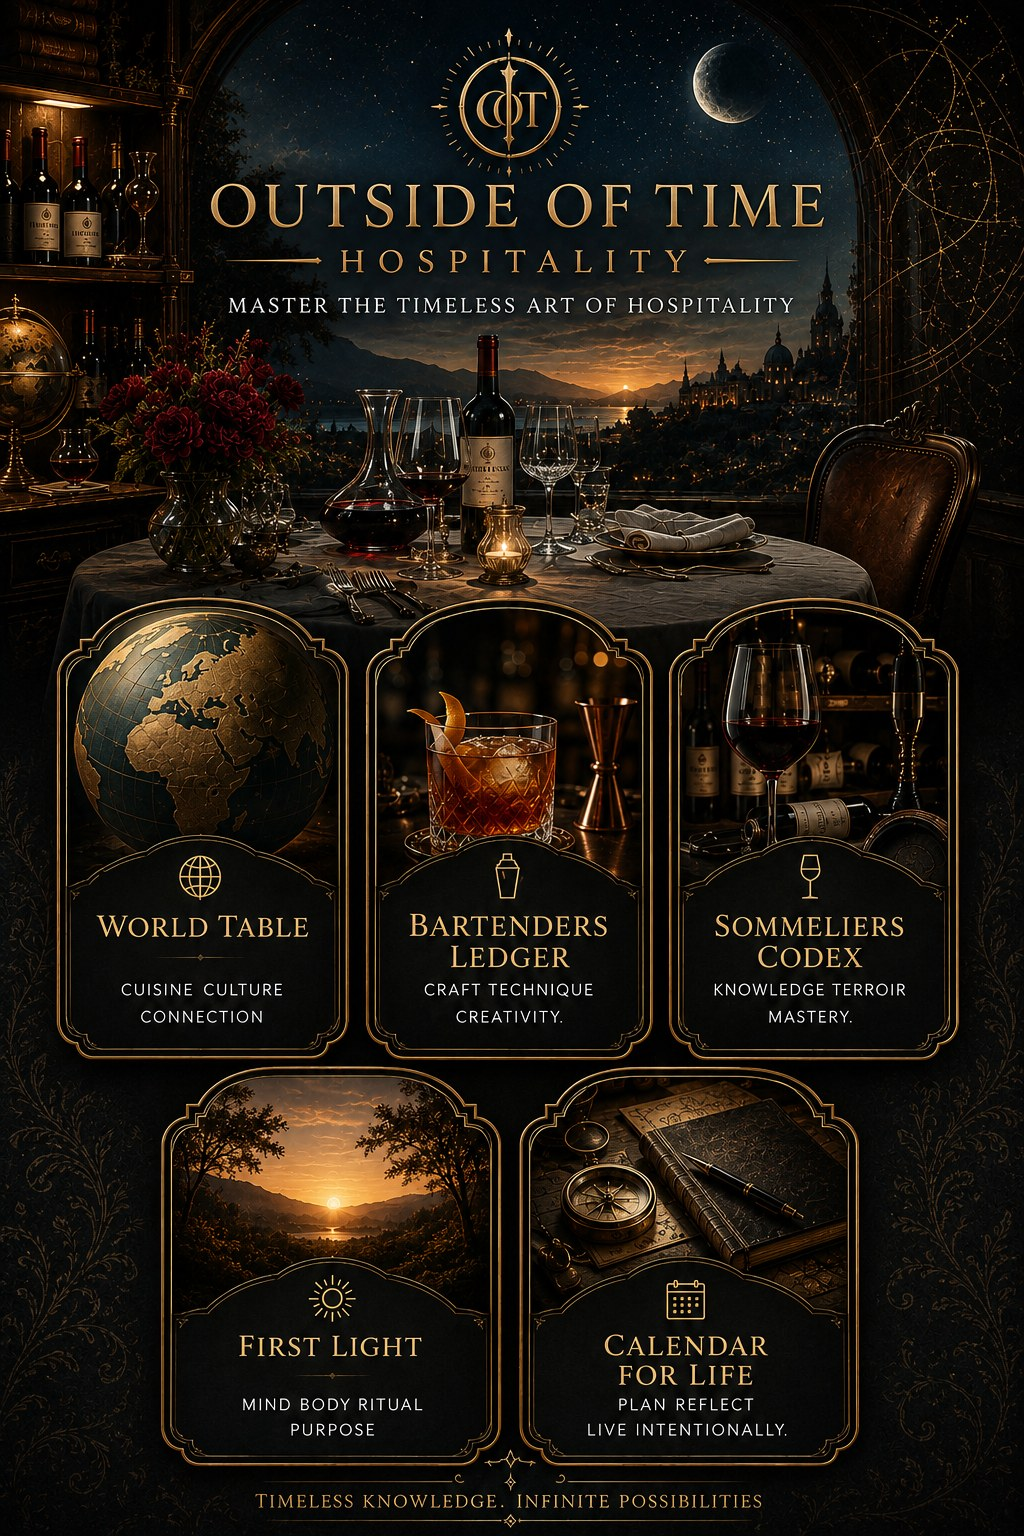
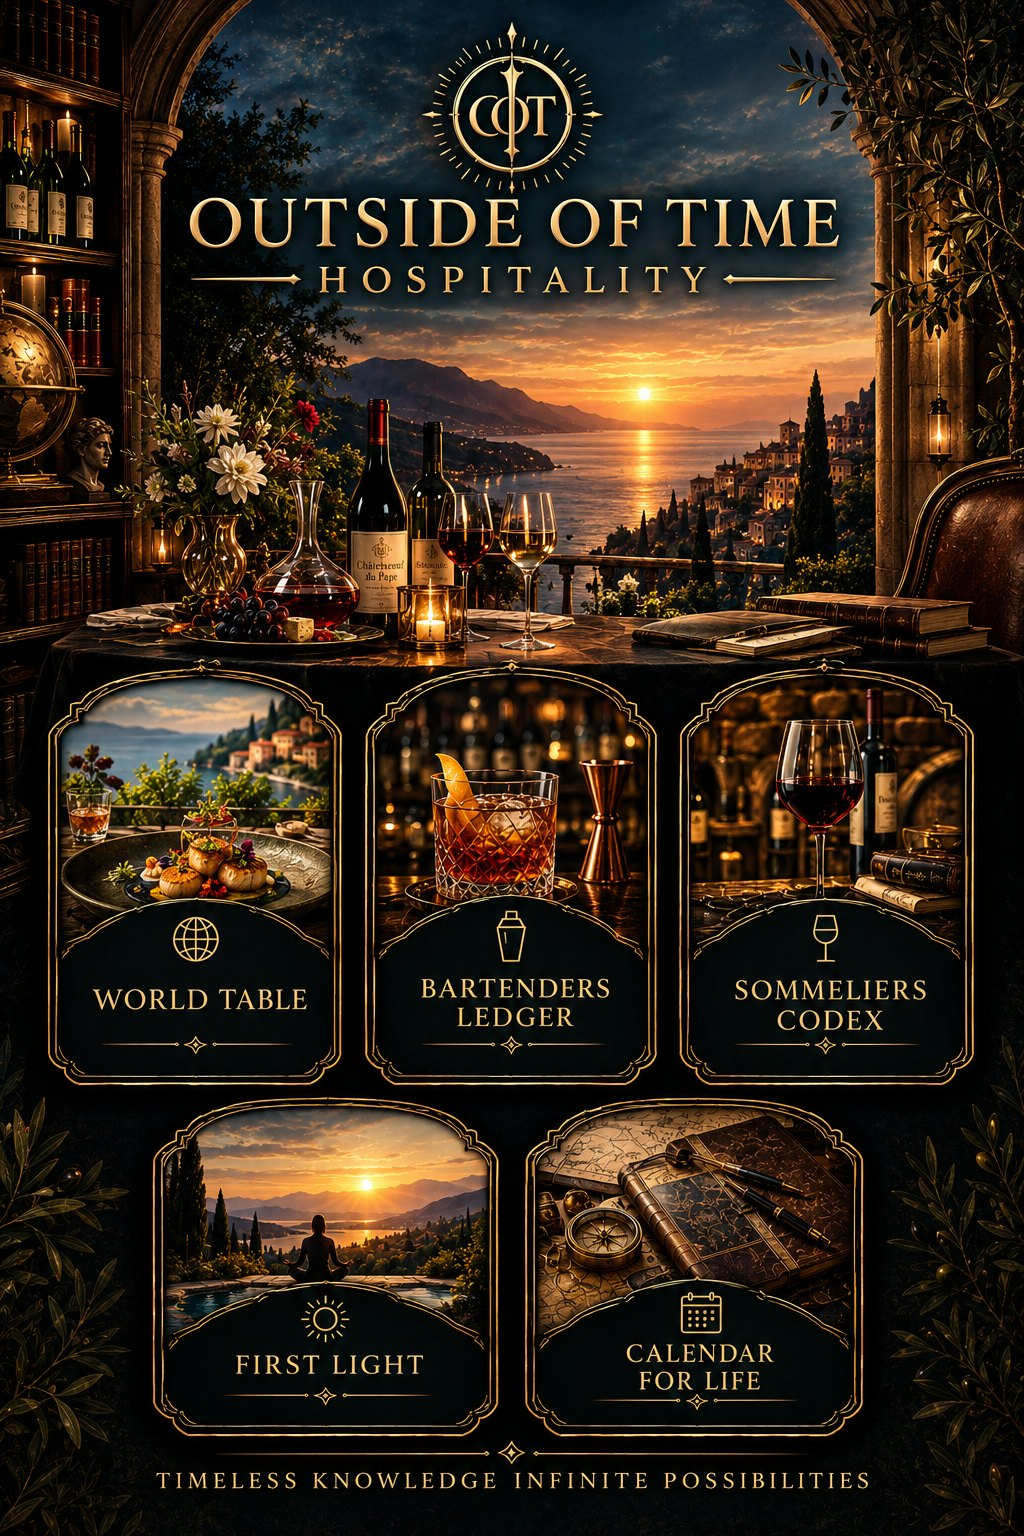
The new hub plate
New artwork for the front door, and the five invisible hotspots moved to the
cards' new positions. They were measured off the image by its gold borders and
then drawn back over it and checked, because a hotspot that is out by four per
cent does not look wrong, it just opens the wrong wing.

diff --git a/assets/hub-poster.css b/assets/hub-poster.css
@@ -280,11 +280,17 @@ header.top { padding: 0; }
 @media (prefers-reduced-motion: reduce) { .spot { transition: none; } }
 
 /* Measured off the 1024x1536 artwork. */
-.spot-table   { left:  5.57%; top: 38.87%; width: 28.32%; height: 30.14%; }
-.spot-ledger  { left: 35.74%; top: 38.87%; width: 27.93%; height: 30.14%; }
-.spot-codex   { left: 65.33%; top: 38.87%; width: 28.22%; height: 30.14%; }
-.spot-light   { left: 15.72%; top: 69.47%; width: 33.20%; height: 25.85%; }
-.spot-almanac { left: 50.78%; top: 69.47%; width: 33.11%; height: 25.85%; }
+/* Measured off the artwork, not estimated: the card borders are gold, so
+   counting gold pixels down each column and across each row finds the four
+   edges of every card exactly. The boxes were then drawn back over the
+   picture and looked at before shipping, because a hotspot is invisible and
+   a wrong one does not look wrong, it just opens the wrong wing. Re-measure
+   whenever the plate is redrawn: every number here belongs to one image. */
+.spot-table   { left:  4.69%; top: 40.17%; width: 28.51%; height: 30.40%; }
+.spot-ledger  { left: 35.64%; top: 40.17%; width: 28.42%; height: 30.40%; }
+.spot-codex   { left: 66.41%; top: 40.17%; width: 28.61%; height: 30.40%; }
+.spot-light   { left: 14.94%; top: 71.90%; width: 33.60%; height: 21.60%; }
+.spot-almanac { left: 51.27%; top: 71.90%; width: 32.91%; height: 21.60%; }
 
 
 .acct { display: flex; justify-content: center; gap: 10px; flex-wrap: wrap; margin: 24px auto 0; padding: 0 16px; }

diff --git a/assets/hub-plate.js b/assets/hub-plate.js
@@ -51,18 +51,20 @@
 
     var pic = document.createElement('picture');
     var src = document.createElement('source');
-    src.srcset = 'assets/hub-plate.webp';
+    /* stamped so a browser's own cache cannot serve the previous artwork; the
+       worker matches with ignoreSearch, so the precached bare path still answers */
+    src.srcset = 'assets/hub-plate.webp?v=2';
     src.type = 'image/webp';
     var img = document.createElement('img');
-    img.src = 'assets/hub-plate.jpg';
+    img.src = 'assets/hub-plate.jpg?v=2';
     img.width = 1024;
     img.height = 1536;
     img.decoding = 'async';
     /* The masthead's words are painted into this image, so they are described
        here for anyone who cannot see it. The five wings are named by the
        hotspots themselves. */
-    img.alt = 'Outside Of Time Hospitality. Master the timeless art of hospitality. ' +
-      'Five wings, shown as illuminated cards on a set table at dusk.';
+    img.alt = 'Outside Of Time Hospitality. Five wings, shown as illuminated cards ' +
+      'below a set table on a terrace above the sea at sunset.';
     /* If the artwork cannot load, fall back to the real list of doors rather
        than to a page of invisible links over nothing. */
     img.addEventListener('error', function () {

diff --git a/index.html b/index.html
@@ -268,7 +268,7 @@ footer.foot a:hover{color:var(--brass-hi)}
    dropped this paragraph to 4.17:1, under the 4.5:1 minimum for 12px text. */
 .legal{margin-top:1em;font-size:.76rem;max-width:52ch;margin-inline:auto}
 </style>
-<link rel="stylesheet" href="assets/hub-poster.css?v=10">
+<link rel="stylesheet" href="assets/hub-poster.css?v=11">
 </head>
 <body>
 
@@ -531,6 +531,6 @@ footer.foot a:hover{color:var(--brass-hi)}
 
 })();
 </script>
-<script src="assets/hub-plate.js?v=8"></script>
+<script src="assets/hub-plate.js?v=9"></script>
 </body>
 </html>

diff --git a/sw.js b/sw.js
@@ -15,7 +15,7 @@
  * narrower scope, and a narrower scope always wins, so /ledger/ is served by
  * ledger/sw.js and never by this file.
  */
-const CACHE = 'oot-shell-v18';
+const CACHE = 'oot-shell-v19';
 
 /* Every page asks for shared/oot-config.js?v=23 and the cache is matched with
    ignoreSearch, so the precached copy answers whatever stamp the page wears:
